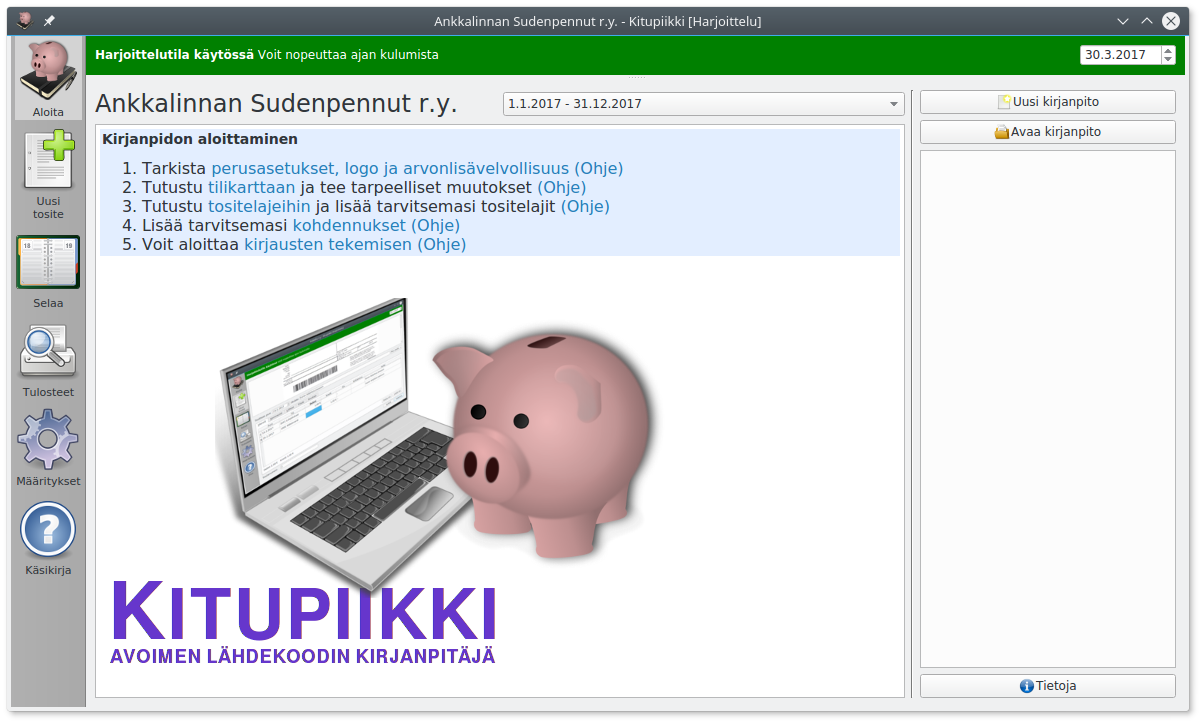
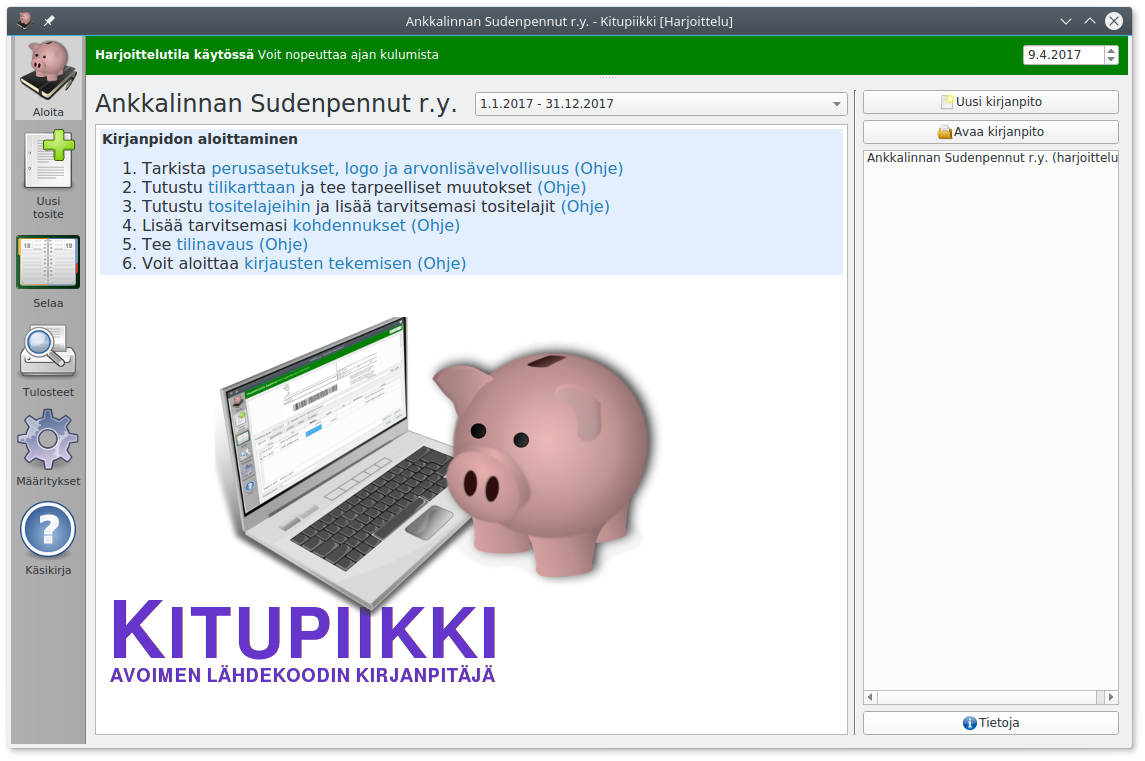
Deployed f3fc302 with MkDocs version: 0.16.1

Changed region(s): [[0.0, 0.0, 1.0, 0.9724]]

diff --git a/maaritykset/index.html b/maaritykset/index.html
@@ -197,6 +197,13 @@
     <ul class="md-nav__list" data-md-scrollfix>
       
         <li class="md-nav__item">
+  <a href="#perusvalinnat" title="Perusvalinnat" class="md-nav__link">
+    Perusvalinnat
+  </a>
+  
+</li>
+      
+        <li class="md-nav__item">
   <a href="#tilikartta" title="Tilikartta" class="md-nav__link">
     Tilikartta
   </a>
@@ -220,6 +227,13 @@
         <li class="md-nav__item">
   <a href="#tilinavaus" title="Tilinavaus" class="md-nav__link">
     Tilinavaus
+  </a>
+  
+</li>
+      
+        <li class="md-nav__item">
+  <a href="#muut-maaritykset" title="Muut määritykset" class="md-nav__link">
+    Muut määritykset
   </a>
   
 </li>
@@ -353,6 +367,13 @@
     <ul class="md-nav__list" data-md-scrollfix>
       
         <li class="md-nav__item">
+  <a href="#perusvalinnat" title="Perusvalinnat" class="md-nav__link">
+    Perusvalinnat
+  </a>
+  
+</li>
+      
+        <li class="md-nav__item">
   <a href="#tilikartta" title="Tilikartta" class="md-nav__link">
     Tilikartta
   </a>
@@ -380,6 +401,13 @@
   
 </li>
       
+        <li class="md-nav__item">
+  <a href="#muut-maaritykset" title="Muut määritykset" class="md-nav__link">
+    Muut määritykset
+  </a>
+  
+</li>
+      
     </ul>
   
 </nav>
@@ -394,10 +422,75 @@
               
                 
                 <h1 id="kirjanpidon-maaritykset">Kirjanpidon määritykset</h1>
+<h2 id="perusvalinnat">Perusvalinnat</h2>
+<p><img alt="" src="../ruutu/maaritys_perusvalinnat.png" /></p>
+<p><strong>Organisaation nimi</strong>, <strong>y-tunnus</strong> ja <strong>logo</strong> näkyvät erilaisissa tulosteissa. Logoksi voi valita jpg- tai png-muotoisen kuvatiedoston.</p>
+<p>Valitse <strong>Arvonlisäverovelvollinen</strong> jos olet rekisteröitynyt arvonlisäverovelvolliseksi, katso <a href="https://www.vero.fi/fi-FI/Yritys_ja_yhteisoasiakkaat/Arvonlisaverotus">Verohallinnon ohjeet arvonlisäverosta</a>. Arvonlisäveroon liittyvät toiminnat näytetään vain, kun <strong>Arvonlisäverovelvollinen</strong> on valittu. Katso Käsikirjan lukua <a href="../alv">Arvonlisävero</a>.</p>
+<div class="admonition note">
+<p class="admonition-title">Ei vielä käytössä</p>
+<p>Ensimmäisessä esiversiossa ei ole arvonlisäveroon liittyviä toimintoja, eikä tätä kohtaa voi valita.</p>
+</div>
+<div class="admonition tip">
+<p class="admonition-title">Arvonlisäverovelvollisuus</p>
+<p>Arvonlisäverovelvolliseksi on syytä hakeutua heti, jos tilikauden liikevaihto voi ylittää 10 000 euroa. Jos raja ylittyy kesken tilikauden, on arvonlisävero kuitenkin maksettava koko tilikaudelta. Huomaa, että yleishyödyllinen toiminta on arvonlisäverotonta, eli useimpien yhdistysten tarvitsee maksaa arvonlisäveroa vain, jos ne harjoittavat huomattavaa liiketoimintaa.</p>
+</div>
+<p><strong>Näytä tulosteiden muokkauksen työkalut</strong> mahdollistaa tilinpäätösmallin ja eri raporttien mallipohjien muokkaamisen.</p>
+<div class="admonition warning">
+<p class="admonition-title">Tiedä mitä teet!</p>
+<p>Mallit määrittelevät, miten tilinpäätöksen tase ja tuloslaskelma muodostetaan. Ole huolellinen muokatessasi raporttien malleja.</p>
+</div>
 <h2 id="tilikartta">Tilikartta</h2>
+<p><img alt="" src="../ruutu/maaritys_tilikartta.png" /></p>
+<p>Muokkaa tilikarttaa lisäämällä uusia tilejä ja muokkaamalla tai piilottamalla vanhoja.</p>
+<p>Jos tilikartassa oleva tili on tarpeeton, piilota se. Piilotettu tili ei näy luetteloissa tiliä valittaessa. Tilin voi myös kokonaan poistaa, mutta yleensä piilottaminen on parempi vaihtoehto.</p>
+<div class="admonition warning">
+<p class="admonition-title">Käytössä olevan tilin piilottaminen</p>
+<p>Piilotettuja tilejä ei tulosteta tavalliseen tililuetteloon. Jos tilikauden vaihtuessa joku tili jää tarpeettomaksi, piilota se vasta kun tilinpäätös on tehty, jotta tili näkyy tilinpäätöksen tililuettelossa.</p>
+</div>
+<p>Voit merkitä paljon käytetyt tilit suosikkitileiksi. Tiliä valittaessa voit ottaa näkyviin pelkät suosikkitilit.</p>
+<p><img alt="" src="../ruutu/maaritys_tilimuokkaus.png" /></p>
+<p>Tilit ja otsikot pitää <strong>numeroida</strong>. Vastaavaa-tasetilit alkavat numerolla 1 ja Vastattavaa-tasetilit numerolla 2. Tilinumerot järjestetään niin, että lyhyempi tilinumero vastaa pidempää numeroa, jonka loppu on täytetty nollilla (eli tilinumerot 491 ja 49100 tarkoittavat samaa tiliä). Otsikolla saa olla sama numero kuin sen alle tulevalla tilillä.</p>
+<p>Tilin <strong>tilityyppi</strong> määrittelee, miten tiliä käsitellään kirjanpidossa.</p>
+<p><strong>Vastatili</strong> määrittelee sen, mikä tili valitaan oletuksena tehtäessä tälle tilille kirjaus. Meno- ja tulotileille kannattaa usein valita vastatiliksi pankki- tai käteistili.</p>
 <h2 id="tositelajit">Tositelajit</h2>
+<p><img alt="" src="../ruutu/maaritys_tositelajit.png" /></p>
+<p>Tositteet voi jakaa omiksi sarjoikseen eli tositelajeiksi, jotka numeroidaan erikseen. Kitupiikissä tositelajit tunnistetaan alussa olevasta yhden tai useamman kirjaimen tunnisteesta, esim. ML myyntilaskuille.</p>
+<p>Omia tositelajeja voi tehdä esimerkiksi ostolaskuille, myyntilaskuille, pankkitilin tiliotteilla, muistiotositteille, käteistositteille jne.</p>
+<p><img alt="" src="../ruutu/maaritys_tositelajimuokkaus.png" /></p>
+<p>Tositelajille voi määritellä <strong>oletustilin</strong> eli tilin, mihin kirjauksen pääosin kohdistuvat (esimerkiksi myyntilaskuille 3001 Myynnit). <strong>Oletusvastatili</strong> määrittää oletuksena olevat tasetilin (yleensä pankkitili, käteistili, myyntisaamistili tai ostovelkatili).</p>
+<div class="admonition tip">
+<p class="admonition-title">Tilin valitseminen</p>
+<p>Voit valita tilin joko aloittamalla kirjoittamaan tilin numeroa, jolloin pääset selaamaan tililuetteloa, tai aloittamalla kirjoittamaan tilin nimeä tai osaa siitä. Painamalla tilinvalinnassa välilyöntiä pääset kaikkien tilien luetteloon. </p>
+</div>
+<p>Määrittämällä, että tosittella kirjataan <strong>vain ostolaskuja</strong> tai <strong>vain myyntilaskuja</strong> näytetään tilille kirjattaessa vain menotilit tai tulotilit. Valinnalla <strong>Tiliotteita tilille</strong> määritellään, että tällä tositelajilla tehdään kirjauksia vain tietyn tilin tiliotteen perusteella.</p>
+<p>Määrittämällä eri käyttötarkoituksille omat tositelajinsa ja tekemällä niille oletusvalinnat, tulee kirjaamisesta huomattavasti nopeampaa ja tositeluetteloista selvempiä.</p>
 <h2 id="kohdennukset">Kohdennukset</h2>
+<p><img alt="" src="../ruutu/maaritys_kohdennukset.png" /></p>
+<p>Kohdennuksilla voidaan tuloja ja menoja kohdentaa yhdistyksen eri jaostoille tai toimintaryhmille, yrityksen eri osastoille tai projekteille jne. Koko kirjanpito voidaan toteuttaa myös ilman kohdennuksia.</p>
+<p>Kohdennukset voivat olla kustannuspaikkoja tai projekteja: <strong>Kustannuspaikan</strong> tuloja ja menoja seurataan tilivuosittain, kun taas <strong>projekti</strong> voi jatkua tilikauden vaihtumisen yli.</p>
+<p>Kitupiikin kohdennukset koskevat vain tuloja ja menoja, eivät taseessa olevaa varallisuutta.</p>
+<p><img alt="" src="../ruutu/maaritys_kohdennusmuokkaa.png" /></p>
+<div class="admonition tip">
+<p class="admonition-title">Leiri projektina</p>
+<p>Sudenpentulippukunta kirjaa leirin tuloiksi leirimaksut ja leiriä varten saadut avustukset ja kuluiksi leirin kustannukset. Näin leirin kustannuksia voidaan seurata ja kirjanpito osoittaa leiriä avustaneille, että kohdeavustukset ovat menneet juuri tämän leirin kuluihin.</p>
+</div>
+<div class="admonition tip">
+<p class="admonition-title">Aktiviteettirahojen seurtanta</p>
+<p>Lions-toiminnassa määritellään, että yleisöltä kerätyt hyväntekeväisyyteen tarkoitetut rahat (ns. aktiviteettitili) on pidettävä erillään klubin muusta toiminnassa kuten klubi-iltojen järjestämisestä (ns. hallintotili). Muodostamalla aktiviteeteistä projektin, jolle kirjataan lahjoitustulot ja toisaalta hyväntekeväisyysmenot voidaan osoittaa, ettei hyväntekeväisyyteen tarkoitettuja varoja ole käytetty muuhun toimintaan.</p>
+</div>
 <h2 id="tilinavaus">Tilinavaus</h2>
+<p><img alt="" src="../ruutu/maaritys_tilinavaus.png" /></p>
+<p>Tilinavauksessa syötetään tilin avaavina saldoina tilien loppusummat edellisen tilinpäätöksen taseesta ja tuloslaskelman erittelystä.</p>
+<p>Saldot syötetään ilman etumerkkiä (ellei sitten esimerkiksi edellisiltä tilikausilta ole jäänyt alijäämää).</p>
+<p>Tuloslaskelmaan saldot syötetään tileittäin, koska uuden tilikauden tuloslaskelmaan on merkittävä vertailutiedot edelliseltä tilikaudelta.</p>
+<p>Jos tilikarttaa on Kitupiikkiin siirryttäessä muutettu, pitäisi tilinavaukset vertailulukemat pyrkiä merkitsemään uuden tilikartan mukaisille tileille.</p>
+<div class="admonition tip">
+<p class="admonition-title">Tilinavaus ei ole valmis?</p>
+<p>Voit aloittaa kirjaamisen, vaikka edellisen tilikauden tilinpäätös ei olisi valmis eikä tilinavausta olisi tehty. Taseesta tehtävät tulosteet ovat kuitenkin virheellisiä kunnes tilinavaus on tehty.</p>
+</div>
+<h2 id="muut-maaritykset">Muut määritykset</h2>
+<p>Nyt Kitupiikki on valmis kirjausten tekemiseen!</p>
+<p>Arvonlisäveroon liittyvät valinnat on selostettu (arvonlisävero-luvussa)[alv], raporttien muokkaaminen <a href="../raportti">raportit-luvussa</a> ja tilinpäätösten pohjat <a href="../tilinpaatos">tilinpäätös-luvussa</a>. Työkalut on esitelty luvussa <a href="../muut">muita toimintoja</a>.</p>
               
             </article>
           </div>

diff --git a/kirjaus/index.html b/kirjaus/index.html
@@ -186,10 +186,65 @@
     
     <input class="md-toggle md-nav__toggle" data-md-toggle="toc" type="checkbox" id="toc">
     
+      
+    
+    
+      <label class="md-nav__link md-nav__link--active" for="toc">
+        Kirjaaminen
+      </label>
     
     <a href="./" title="Kirjaaminen" class="md-nav__link md-nav__link--active">
       Kirjaaminen
     </a>
+    
+      
+<nav class="md-nav md-nav--secondary">
+  
+  
+    
+  
+  
+    <label class="md-nav__title" for="toc">Sisällysluettelo</label>
+    <ul class="md-nav__list" data-md-scrollfix>
+      
+        <li class="md-nav__item">
+  <a href="#kirjaaminen-avustajalla" title="Kirjaaminen Avustajalla" class="md-nav__link">
+    Kirjaaminen Avustajalla
+  </a>
+  
+</li>
+      
+        <li class="md-nav__item">
+  <a href="#kirjaaminen-ilman-apuria" title="Kirjaaminen ilman Apuria" class="md-nav__link">
+    Kirjaaminen ilman Apuria
+  </a>
+  
+</li>
+      
+        <li class="md-nav__item">
+  <a href="#kommentit" title="Kommentit" class="md-nav__link">
+    Kommentit
+  </a>
+  
+</li>
+      
+        <li class="md-nav__item">
+  <a href="#liitteet" title="Liitteet" class="md-nav__link">
+    Liitteet
+  </a>
+  
+</li>
+      
+        <li class="md-nav__item">
+  <a href="#tiliotteen-kirjaaminen" title="Tiliotteen kirjaaminen" class="md-nav__link">
+    Tiliotteen kirjaaminen
+  </a>
+  
+</li>
+      
+    </ul>
+  
+</nav>
     
   </li>
 
@@ -298,6 +353,48 @@
 <nav class="md-nav md-nav--secondary">
   
   
+    
+  
+  
+    <label class="md-nav__title" for="toc">Sisällysluettelo</label>
+    <ul class="md-nav__list" data-md-scrollfix>
+      
+        <li class="md-nav__item">
+  <a href="#kirjaaminen-avustajalla" title="Kirjaaminen Avustajalla" class="md-nav__link">
+    Kirjaaminen Avustajalla
+  </a>
+  
+</li>
+      
+        <li class="md-nav__item">
+  <a href="#kirjaaminen-ilman-apuria" title="Kirjaaminen ilman Apuria" class="md-nav__link">
+    Kirjaaminen ilman Apuria
+  </a>
+  
+</li>
+      
+        <li class="md-nav__item">
+  <a href="#kommentit" title="Kommentit" class="md-nav__link">
+    Kommentit
+  </a>
+  
+</li>
+      
+        <li class="md-nav__item">
+  <a href="#liitteet" title="Liitteet" class="md-nav__link">
+    Liitteet
+  </a>
+  
+</li>
+      
+        <li class="md-nav__item">
+  <a href="#tiliotteen-kirjaaminen" title="Tiliotteen kirjaaminen" class="md-nav__link">
+    Tiliotteen kirjaaminen
+  </a>
+  
+</li>
+      
+    </ul>
   
 </nav>
                   </div>
@@ -310,9 +407,43 @@
                
               
                 
-                  <h1>Kirjaaminen</h1>
-                
-                
+                <h1 id="kirjaaminen">Kirjaaminen</h1>
+<p><img alt="" src="../ruutu/kirjaus0.png" /></p>
+<h2 id="kirjaaminen-avustajalla">Kirjaaminen Avustajalla</h2>
+<p>Useimmat tavanomaiset kirjaukset kuten ostot, myynnit, nostot pankkitililtä jne. kirjaat helpoiten käyttämällä Apuria.</p>
+<ol>
+<li>Jos tosite on tietokoneella (pdf- tai jpg-tiedostona) tuo se joko raahaamalla se <strong>Sähköinen tosite</strong>-kohtaan tai <strong>Valitse tiedosto</strong>-napilla.</li>
+<li>Täytä tositteen <strong>päivämäärä</strong> ja <strong>otsikko</strong>.</li>
+<li>Valitse <strong>tositelaji</strong>.</li>
+<li>Käynnistä Avustaja joko <strong>Avustaja</strong>-napista tai painamalla Enter.
+<img alt="" src="../ruutu/kirjaus1.png" /></li>
+<li>Valitse kirjaustili. Voit joko kirjoittaa Tili-kohtaan suoraan tilinumeron tai aloittaa kirjoittamalla tilin nimeä, jolloin pääset valitsemaan tilin luettelosta. Painamalla välilyöntiä pääset kaikkien tilien luetteloon.</li>
+<li>Syötä määrä ja varmista, että <strong>vastatili</strong>, <strong>vientipäivä</strong> ja <strong>selite</strong> on oikein. Valitse tarvittaessa <strong>kohdennus</strong>.</li>
+<li>Varmista Apurin ikkunassa alinpana olevasta ruudusta, että kirjaus menee oikein, ja paina <strong>Ok</strong> (tai Enter)</li>
+<li>Kirjauksen tiedot tulevat <strong>Viennit</strong>-välilehdelle. Jos tositteella on useampia vientejä, käynnistä Avustaja uudelleen.</li>
+<li>Lisää tarvittaessa vielä <strong>Kommentit</strong>-välilehdelle tarkemmat selvitykset.</li>
+<li>Jos kirjaus perustuu paperitositteeseen, merkitse <strong>Tositenumero</strong> paperiseen tositteeseen.</li>
+<li>Tallenna kirjaus painamalla <strong>Tallenna</strong>.</li>
+</ol>
+<div class="admonition note">
+<p class="admonition-title">Mikä päivämäärä?</p>
+<p>Kirjanpito voidaan tehdä suorite-, maksu- tai laskuperusteisesti.
+Yksinkertaisinta usein on pitää kirjanpitoa maksuperusteisesti eli merkitä se päivämäärä, jolloin maksu on suoritettu. Yhdistyksiä lukuun ottamatta maksuperustainen kirjanpito on oikaistava tilinpäätöksessä suoriteperustaiseksi.</p>
+</div>
+<h2 id="kirjaaminen-ilman-apuria">Kirjaaminen ilman Apuria</h2>
+<p>Voit tehdä kirjauksen myös ilman Apuria valitsemalla <strong>Viennit</strong>-välilehdellä <strong>Lisää rivi</strong> (tai painamalla Insert).</p>
+<p>Sarakkeeseen <strong>Tili</strong> voit syöttää tilinumeron tai kirjoittaa tilin nimen alkua. <strong>Kohdennus</strong> on käytettävissä vain, jos tiliksi on valittu menotili tai tulotili.</p>
+<h2 id="kommentit">Kommentit</h2>
+<p>Kommentit-välilehdelle kirjoitetaan tarkemmat tiedot tositteesta. Hankinnasta voidaan esimerkiksi kertoa, mitä varten se on tehty ja mihin päätökseen se perustuu (esim. yhdistyksessä viittaus hallituksen pöytäkirjaan).</p>
+<p>Muistiotositteessa selitys voidaan kirjoittaa Kommentti-välilehdelle, jolloin tositteeseen ei tule liitettä (esimerkiksi poistojen tai muun tilinpäätösviennin perusteluina).</p>
+<h2 id="liitteet">Liitteet</h2>
+<p>Tositteeseen voi liittää pdf- tai jpg-tiedostoja. Kuvatiedostot muunnetaan arkistoa varten pdf-muotoon.</p>
+<p>Ensimmäisen liitteen (sähköinen tosite) voit liittää suoraan <strong>Sähköinen tosite</strong>-kohdassa raahaamalla tiedoston tai <strong>Valitse tiedosto</strong>-napista.</p>
+<p>Voit lisätä enemmän tiedostoja <strong>Liitteet</strong>-välilehdeltä <strong>Lisää</strong>-napista. Voit myös poistaa liitteitä, muuttaa liitteen nimeä (kaksoisnapsauttamalla nimeä) tai avata liitteen pdf-katseluohjelmaan tulostamista varten.</p>
+<p>Lisäliite voi olla esimerkiksi hankintapäätös, tarjouspyyntö, lähetyslista tai muu tarpeellinen asiakirja.</p>
+<p>Voit myös tehdä tositteen, jossa on liite ja mahdollisesti kommentteja ilman yhtään vientiä, jos jokin asiakirja on tarpeen liittää sähköiseen arkistoon. Tällainen voi olla tarpeen esimerkiksi todennettaessa tilinpäätöksen liitetietoja liitetietotositteella.</p>
+<h2 id="tiliotteen-kirjaaminen">Tiliotteen kirjaaminen</h2>
+<p><strong>Tiliote</strong>-välilehdeltä voit merkitä, että tosite on tiliote. Tällöin sähköinen arkisto lisää tilille tällä ajanjaksolla tehtyihin kirjauksiin linkin tiliotteeseen. Tiliotemerkintä tehdään automaattisesti, jos tiliote on määritelty tositelajin asetuksissa.</p>
               
             </article>
           </div>
